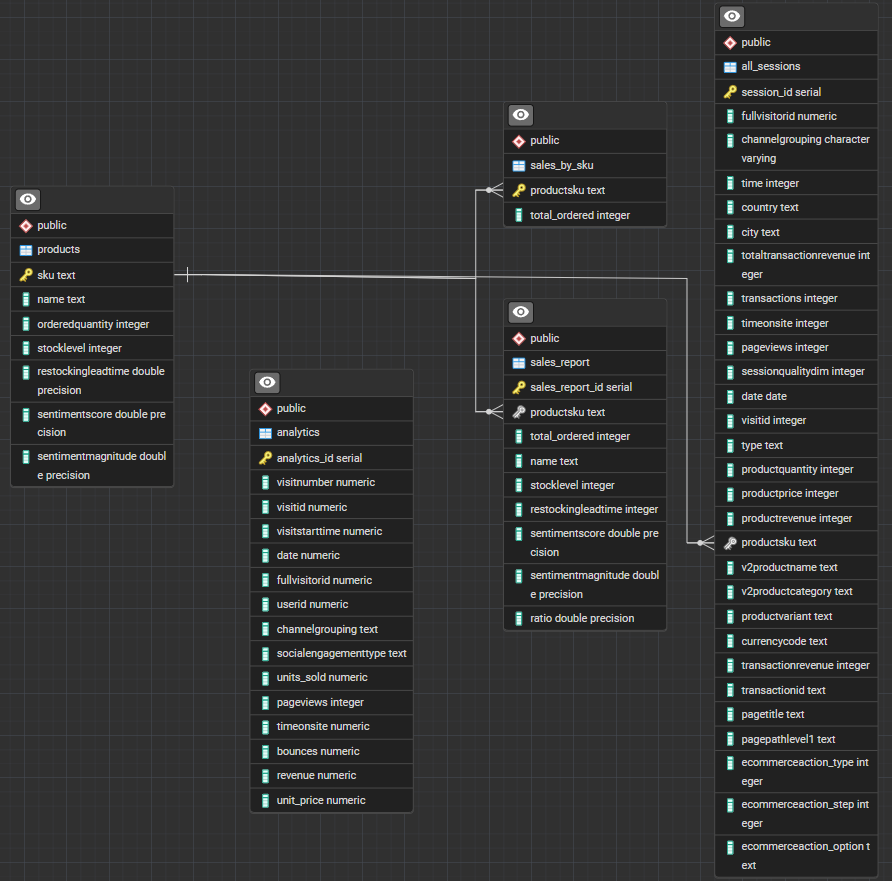
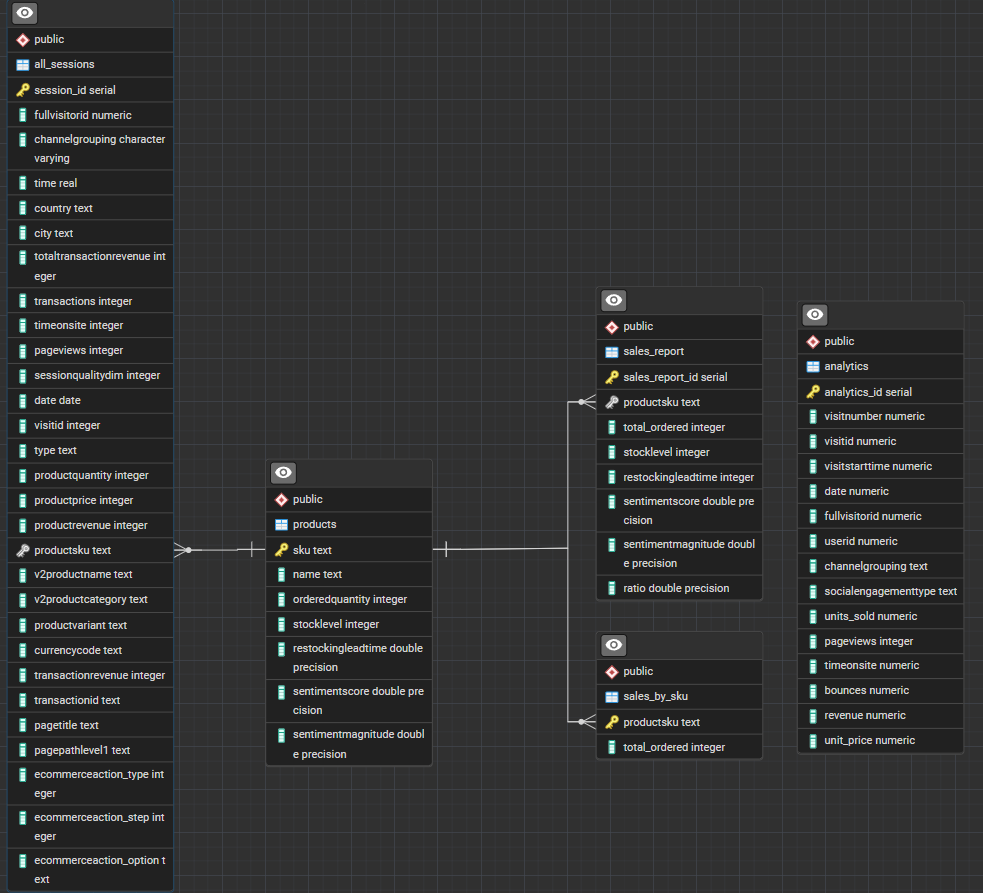
first pass complete

diff --git a/QA.md b/QA.md
@@ -1,12 +1,35 @@
 What are your risk areas? Identify and describe them.
+ The largest risk is incorrect or missing data. A number of columns have little to no data in them at all. Other columns have clearly incorrect data, suah as the city and country columns. 
 
+ Another risk is data being in the incorrect format. Productprice for example has 5 zeros at the end of each value. Is this the actual price? is it in cents? 
 
 
 QA Process:
 Describe your QA process and include the SQL queries used to execute it.
 
-/* Check for duplicates */
-
---- checking for duplicate in product SKUs
+Check for duplicates in primary keys
+-- checking for duplicate in product SKUs
 
 SELECT COUNT(DISTINCT sku), COUNT(sku) FROM products
+
+Compare values across tables
+-- comparing productsku to products.sku across tables
+
+SELECT all_sessions.productsku, sales_by_sku.productsku, sales_report.productsku, products.sku
+FROM products
+FULL OUTER JOIN all_sessions ON all_sessions.productsku = products.sku
+FULL OUTER JOIN sales_by_sku ON sales_by_sku.productsku = products.sku
+FULL OUTER JOIN sales_report ON sales_report.productsku = products.sku
+
+
+SELECT sku, productsku
+FROM products
+FULL OUTER JOIN all_sessions ON sku = productsku
+
+
+
+-- compare stock level across products and sales_report
+
+SELECT products.stocklevel, sales_report.stocklevel
+FROM products
+FULL OUTER JOIN sales_report USING(stocklevel)

diff --git a/starting_with_data.md b/starting_with_data.md
@@ -28,11 +28,27 @@ Answer:
 
 
 
-Question 2: Rank cities and countries from most profitable to least
+Question 2: Rank cities from most profitable to least
 
 SQL Queries:
 
+SELECT city, RANK() OVER(ORDER BY sum(totaltransactionrevenue)DESC)
+FROM all_sessions
+GROUP BY city
+HAVING sum(totaltransactionrevenue)>0
+
+
 Answer:
+
+"Atlanta","1"
+"San Francisco","2"
+"Seattle","3"
+"Sunnyvale","4"
+"Mountain View","5"
+"Palo Alto","6"
+"Chicago","7"
+"New York","8"
+
 
 
 
@@ -40,7 +56,14 @@ Question 3: Does the cost of a product affect the likelyhood of it being purchas
 
 SQL Queries:
 
+SELECT v2productname, productprice, total_ordered
+FROM all_sessions
+JOIN sales_by_sku USING(productsku)
+Order By productprice DESC
+
 Answer:
+
+Based on the query above it would apear that lower cost items are not as often bought as higher priced items.
 
 
 

diff --git a/assignment.md b/assignment.md
@@ -18,6 +18,7 @@ Apart from this, did you see any other issue that requires cleaning? Be sure to 
 
 In your copy of the **cleaning_data.md** file, describe what issues you addressed by cleaning the data and provide the queries you executed to clean the data.
 
+
 ## Part 3: Starting with Questions
 
 This database provides data on revenue by product as well as data on how each visitor to the site interacted with the products (when they visited, where they were based, how many pages they viewed, how long they stayed on the site, and the number of transactions they entered).

diff --git a/cleaning_data.md b/cleaning_data.md
@@ -118,6 +118,12 @@ WHERE v2productcategory IN ('(not set)', '${escCatTitle}')
 
 ---
 
+removing sales_report.name as it is doubling up on info that should only live in the products table
+
+ALTER TABLE sales_report
+DROP COLUMN name
+
+
 
 
 
